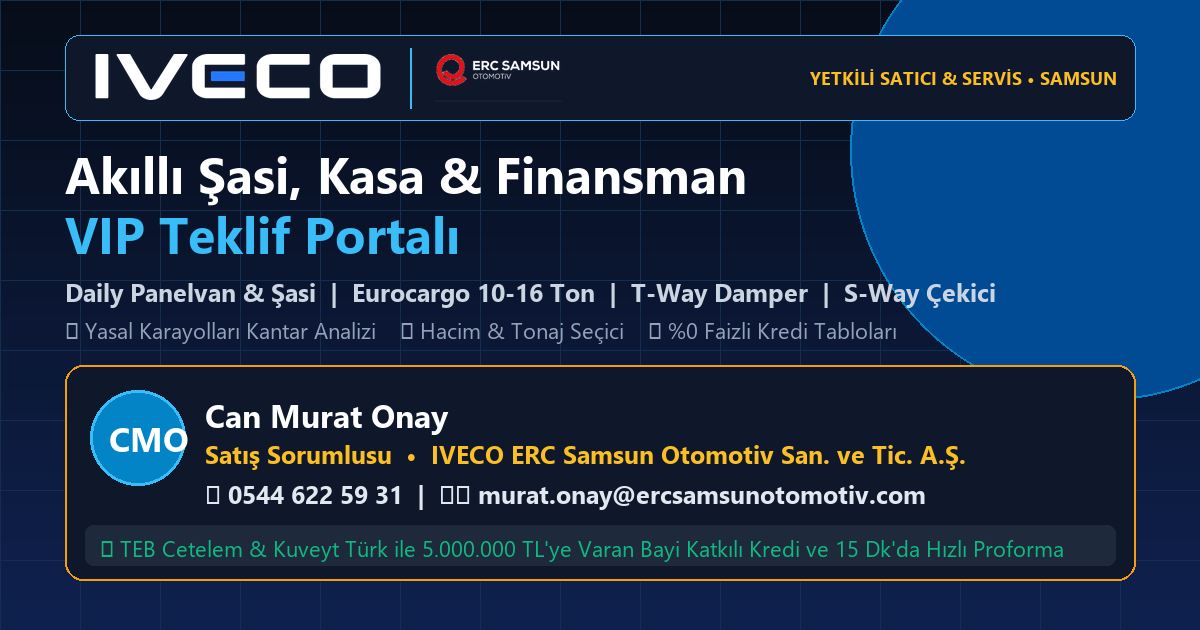
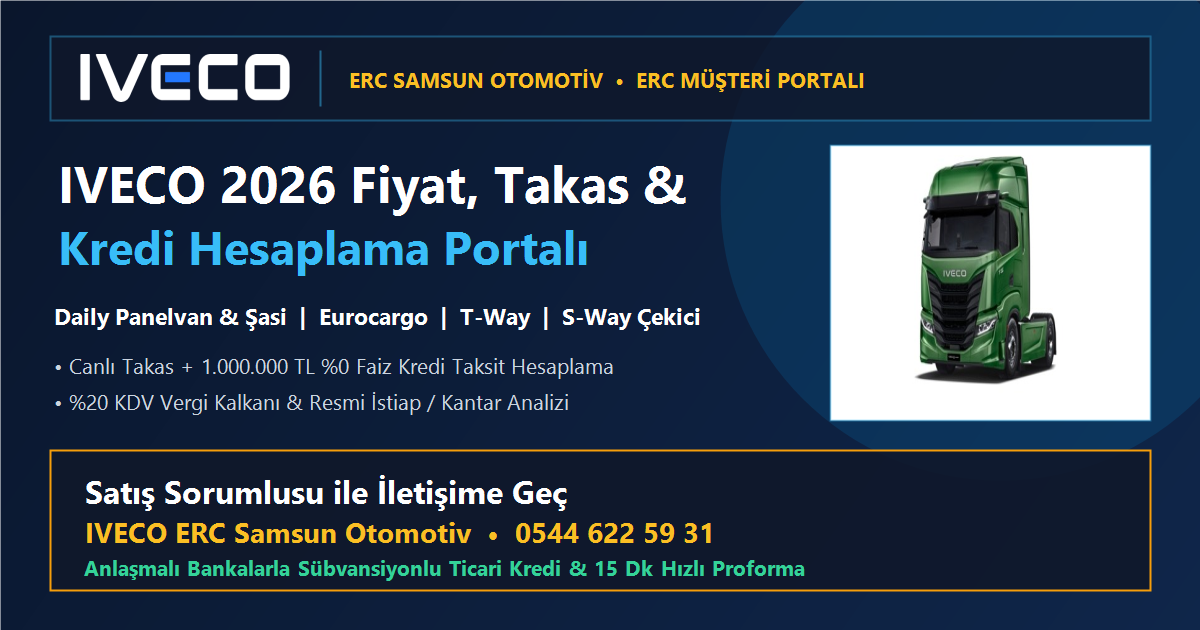
fix(whatsapp): optimize WhatsApp Status templates and OpenGraph tags for Android preview card

diff --git a/frontend/src/components/CRM/PartnerLinkGeneratorCard.jsx b/frontend/src/components/CRM/PartnerLinkGeneratorCard.jsx
@@ -172,7 +172,7 @@ export default function PartnerLinkGeneratorCard({ isMobile = false }) {
       params.set('picon', '👑');
     }
     params.set('ref', activeChannel.refCode);
-    return `${baseOrigin}/fiyat-listesi?${params.toString()}`;
+    return `${baseOrigin}/?${params.toString()}`;
   }, [
     origin,
     activeChannel,
@@ -191,8 +191,8 @@ export default function PartnerLinkGeneratorCard({ isMobile = false }) {
     const link = channelGeneratedLink;
     const discountShortNote = enableChannelDiscount && Number(channelDiscountValue) > 0
       ? (channelDiscountType === 'percent'
-          ? ` (Linkin içine sana özel %${channelDiscountValue} iskonto da tanımladım)`
-          : ` (Linkin içine sana özel araç başı ${Number(channelDiscountValue).toLocaleString('tr-TR')} TL indirim de tanımladım)`)
+          ? ` (%${channelDiscountValue} özel iskonto tanımlı)`
+          : ` (${Number(channelDiscountValue).toLocaleString('tr-TR')} TL özel indirim tanımlı)`)
       : '';
     const discountLine = enableChannelDiscount && Number(channelDiscountValue) > 0
       ? (channelDiscountType === 'percent'
@@ -200,44 +200,60 @@ export default function PartnerLinkGeneratorCard({ isMobile = false }) {
           : `🎁 *Size Özel Tanımlanan İndirim:* Tüm 2026 modellerde *Araç Başı ${Number(channelDiscountValue).toLocaleString('tr-TR')} TL Özel İndirim* fiyatlardan otomatik düşülmüştür!\n`)
       : '';
 
-    // 1. SIKMAYAN 2 CÜMLELİK MERAK KANCASI (REKLAM KOKMAYAN / EN YÜKSEK TIKLAMA)
-    if (hookStyle === 'curiosity_short') {
-      if (selectedChannelId === 'wa_durum') {
+    // WHATSAPP DURUM (STATUS) ÖZEL KURALI:
+    // Android WhatsApp Durum'da metin ~180 karakteri aşarsa veya linkin altında/başında metin-emoji olursa
+    // üstteki beyaz resimli link kartı gizlenir. Bu yüzden Durum metinleri kısa tutulur ve link en son satırda tek başına yer alır:
+    if (selectedChannelId === 'wa_durum') {
+      if (hookStyle === 'tradein_hook') {
         return (
-          `Kimseyi aramadan, telefon trafiğine girmeden 10 saniyede kendi hesabınızı yapın: 👇\n` +
-          `Elinizdeki aracın takas değerini düşüp 2026 sıfır IVECO'nun size ayda kaç TL'ye geleceğini buradan kendiniz görebilirsiniz${discountShortNote}:\n\n` +
-          `👉 ${link}\n\n` +
-          `Satış Sorumlusu | 0544 622 59 31`
+          `🔄 Aracınızı takasa verince 2026 IVECO ayda kaç TL'ye gelir? 1M TL %0 Faizle hemen hesaplayın${discountShortNote} 👇\n\n` +
+          `${link}`
         );
       }
+      if (hookStyle === 'tax_hook') {
+        return (
+          `🧾 Vergi ödemek yerine filoyu yenileyin: %20 KDV vergi indirimi ve 1M TL %0 Faiz tablosu${discountShortNote} 👇\n\n` +
+          `${link}`
+        );
+      }
+      if (hookStyle === 'detailed') {
+        return (
+          `🚛 2026 IVECO Canlı Fiyat, Takas & 1M TL %0 Faiz Kredi Hesaplama Ekranımız Açıldı${discountShortNote} 👇\n\n` +
+          `${link}`
+        );
+      }
+      return (
+        `Kimseyi aramadan 10 saniyede elinizdeki aracın takasını düşüp 2026 IVECO kredi taksitinizi hesaplayın${discountShortNote} 👇\n\n` +
+        `${link}`
+      );
+    }
+
+    // 1. SIKMAYAN 2 CÜMLELİK MERAK KANCASI (REKLAM KOKMAYAN / EN YÜKSEK TIKLAMA)
+    if (hookStyle === 'curiosity_short') {
       if (selectedChannelId === 'wa_ozel' || selectedChannelId === 'wa_musteri') {
         const prefix = vipCompanyName.trim() ? `*${vipCompanyName.trim()}* — ` : '';
         return (
           `${prefix}Abi selamlar, hayırlı işler dilerim. 🙏\n\n` +
-          `Seni hiç telefonla bölmeyeyim dedim; beni aramana bile gerek kalmadan elindeki aracın takasını düşüp kalan kredi taksitini ve 2026 şasi fiyatlarını kendi başına görebileceğin bir hesap makinesi hazırladım${discountShortNote}. Lazım oldukça elinin altında bulunsun:\n\n` +
-          `👉 ${link}\n\n` +
-          `*Satış Sorumlusu — 0544 622 59 31*`
+          `Seni hiç telefonla bölmeyeyim dedim; beni aramana bile gerek kalmadan elindeki aracın takasını düşüp kalan kredi taksitini ve 2026 şasi fiyatlarını kendi başına görebileceğin bir hesap makinesi hazırladım${discountShortNote}. Lazım oldukça elinin altında bulunsun 👇\n\n` +
+          `${link}`
         );
       }
       if (selectedChannelId === 'wa_grup') {
         return (
           `Cümleten hayırlı işler, kazasız belasız seferler abilerim. 🙏\n\n` +
-          `Grubu reklamla meşgul etmek için değil, işinize yarayacak canlı bir hesap cetveli bırakmak için yazıyorum: Kimseyi aramadan hangi ehliyetle hangi tonaj taşınır, elinizdeki aracın takasını düşünce ayda kaç TL taksit çıkar 10 saniyede kendiniz bakabilirsiniz${discountShortNote}:\n\n` +
-          `👉 ${link}\n\n` +
-          `*Satış Sorumlusu | IVECO ERC Samsun — 0544 622 59 31*`
+          `Grubu reklamla meşgul etmek için değil, işinize yarayacak canlı bir hesap cetveli bırakmak için yazıyorum: Kimseyi aramadan hangi ehliyetle hangi tonaj taşınır, elinizdeki aracın takasını düşünce ayda kaç TL taksit çıkar 10 saniyede kendiniz bakabilirsiniz${discountShortNote} 👇\n\n` +
+          `${link}`
         );
       }
       if (selectedChannelId === 'instagram') {
         return (
           `"Elimdeki aracı takasa versem 2026 sıfır IVECO bana ayda kaç TL'ye gelir?" diye kimseye sormayın, 10 saniyede kendiniz hesaplayın! 🚛👇\n\n` +
-          `👉 ${link}\n\n` +
-          `Satış Sorumlusu | 0544 622 59 31`
+          `${link}`
         );
       }
       return (
-        `Ticari araç yatırımlarında telefon trafiğine girmeden; tonaj/kasa uyumu, %20 KDV vergi kalkanı ve takas + kredi nakit akışını 30 saniyede kendi ekranınızda simüle edebileceğiniz dijital hesaplama aracımız:${discountShortNote}\n\n` +
-        `🔗 ${link}\n\n` +
-        `Satış Sorumlusu | IVECO ERC Samsun Otomotiv | 0544 622 59 31`
+        `Ticari araç yatırımlarında telefon trafiğine girmeden; tonaj/kasa uyumu, %20 KDV vergi kalkanı ve takas + kredi nakit akışını 30 saniyede kendi ekranınızda simüle edebileceğiniz dijital hesaplama aracımız${discountShortNote} 👇\n\n` +
+        `${link}`
       );
     }
 
@@ -245,9 +261,8 @@ export default function PartnerLinkGeneratorCard({ isMobile = false }) {
     if (hookStyle === 'tradein_hook') {
       return (
         `🔄 *"Elimdeki aracı takasa versem ne kadar sayarlar, üstüne ayda kaç TL öderim?"* diye merak edenler için canlı ekran açtık!${discountShortNote}\n\n` +
-        `İster ekrandaki sürgüden aracınızın takas değerini düşüp *1.000.000 TL %0 Faizle* kalan taksitinizi görün, isterseniz mevcut aracınızın *4 resmini (1 dıştan, 1 içten, KM ve ruhsat)* yükleyin 15 dakikada takas ön fiyatınızı cebinize gönderelim:\n\n` +
-        `👉 ${link}\n\n` +
-        `*Satış Sorumlusu | IVECO ERC Samsun — 0544 622 59 31*`
+        `İster ekrandaki sürgüden aracınızın takas değerini düşüp *1.000.000 TL %0 Faizle* kalan taksitinizi görün, isterseniz mevcut aracınızın *4 resmini (1 dıştan, 1 içten, KM ve ruhsat)* yükleyin 15 dakikada takas ön fiyatınızı cebinize gönderelim 👇\n\n` +
+        `${link}`
       );
     }
 
@@ -255,23 +270,8 @@ export default function PartnerLinkGeneratorCard({ isMobile = false }) {
     if (hookStyle === 'tax_hook') {
       return (
         `🧾 *Vergi Ödemek Yerine Filoyu Yenilemek İsteyen İşletmelerimize Not:*\n\n` +
-        `2026 model IVECO şasi ve çekici modellerimizde aracın fatura bedeli içindeki *%20 KDV tutarını doğrudan vergiden düşebileceğiniz* tutarları ve *1M TL %0 Faiz* kredi tablosunu tek ekranda hazırladık${discountShortNote}. Mali müşavirinize tek tuşla gönderebilirsiniz:\n\n` +
-        `👉 ${link}\n\n` +
-        `*Satış Sorumlusu | IVECO ERC Samsun — 0544 622 59 31*`
-      );
-    }
-
-    if (selectedChannelId === 'wa_durum') {
-      return (
-        `🚛 2026 IVECO Canlı Fiyat, Takas & Kredi Hesaplama Ekranımız Açıldı!\n\n` +
-        (discountLine ? `${discountLine}\n` : '') +
-        `Kimseyi aramanıza gerek kalmadan tek tıkla:\n` +
-        `🔄 Elinizdeki aracın takas değerini düşüp 1M TL %0 Faiz (83.333 TL/Ay) ile kalan taksitinizi hesaplayın,\n` +
-        `📸 Mevcut aracınızın 4 resmini (1 dıştan, 1 içten, KM ve ruhsat) gönderip 15 dk'da takas ön fiyatı alın,\n` +
-        `🔒 Beğendiğiniz şasiyi 24 saat ücretsiz adınıza opsiyonlayın veya\n` +
-        `☕ Showroom kahve / görüntülü araç turu randevunuzu seçin:\n\n` +
-        `👉 ${link}\n\n` +
-        `Satış Sorumlusu | IVECO ERC Samsun Otomotiv\n📞 0544 622 59 31`
+        `2026 model IVECO şasi ve çekici modellerimizde aracın fatura bedeli içindeki *%20 KDV tutarını doğrudan vergiden düşebileceğiniz* tutarları ve *1M TL %0 Faiz* kredi tablosunu tek ekranda hazırladık${discountShortNote}. Mali müşavirinize tek tuşla gönderebilirsiniz 👇\n\n` +
+        `${link}`
       );
     }
 
@@ -282,10 +282,8 @@ export default function PartnerLinkGeneratorCard({ isMobile = false }) {
         `2026 model IVECO Daily (B ve C Ehliyet), Eurocargo, S-Way ve T-Way güncel fiyat listemizi, anlaşmalı banka kredi oranlarımızı ve takas hesaplama ekranımızı aşağıdaki bağlantıdan inceleyebilirsiniz:\n\n` +
         discountLine +
         `✅ *Canlı Takas + Kredi Hesabı:* Elinizdeki aracın takas değerini düşüp 1.000.000 TL 12 Ay %0 Faiz veya vadeli banka oranlarıyla aylık taksitinizi anında görün,\n` +
-        `📸 *4 Resimle 15 Dk'da Takas:* Mevcut aracınızın 1 dıştan, 1 içten, KM ve ruhsat resmini yükleyip 15 dakikada takas ön fiyatı alın:\n\n` +
-        `👉 ${link}\n\n` +
-        `Beğendiğiniz modeli ekrandaki tek tuşla 24 saat adınıza opsiyonlayabilir veya doğrudan bana gönderebilirsiniz.\n` +
-        `*Satış Sorumlusu — 0544 622 59 31*`
+        `📸 *4 Resimle 15 Dk'da Takas:* Mevcut aracınızın 1 dıştan, 1 içten, KM ve ruhsat resmini yükleyip 15 dakikada takas ön fiyatı alın 👇\n\n` +
+        `${link}`
       );
     }
 
@@ -297,10 +295,8 @@ export default function PartnerLinkGeneratorCard({ isMobile = false }) {
           `IVECO ERC Samsun'da senin için özel bir canlı katalog ve hesaplama bağlantısı hazırladım. Artık 2026 şasi fiyatlarına bakmak veya takas/kredi hesabı yapmak için beni aramana bile gerek yok:\n\n` +
           discountLine +
           `🔄 Elindeki aracın takas değerini düşüp *1.000.000 TL 12 Ay %0 Faiz (83.333 TL/Ay)* ile kalan taksitini 10 saniyede kendin hesaplayabilirsin,\n` +
-          `📸 Mevcut aracının *4 resmini (1 dıştan, 1 içten, KM ve ruhsat)* yükleyip 15 dakikada takasla fiyat alabilirsin:\n\n` +
-          `👉 ${link}\n\n` +
-          `Kafana yatan bir model olursa ekrandaki tek tuşla doğrudan bana düşüyor. Selamlar!\n` +
-          `*Satış Sorumlusu | IVECO ERC Samsun Otomotiv*\n📞 *0544 622 59 31*`
+          `📸 Mevcut aracının *4 resmini (1 dıştan, 1 içten, KM ve ruhsat)* yükleyip 15 dakikada takasla fiyat alabilirsin 👇\n\n` +
+          `${link}`
         );
       }
       if (vipTone === 'corporate') {
@@ -309,18 +305,15 @@ export default function PartnerLinkGeneratorCard({ isMobile = false }) {
           `Ben IVECO ERC Samsun Otomotiv *Satış Sorumlusu* (0544 622 59 31).\n\n` +
           `2026 yılı filo yenileme ve ticari araç yatırımlarınız kapsamında firmanıza özel hazırladığım dijital katalog, %20 KDV vergi kalkanı & amortisman özeti ve ticari kredi simülasyon bağlantınızı bilgilerinize sunarım:\n\n` +
           discountLine +
-          `👉 ${link}\n\n` +
-          `İhtiyacınıza özel resmi proforma çalışması veya iş yerinizde ziyaret randevusu için bağlantı üzerinden doğrudan talep oluşturabilirsiniz.\n\n` +
-          `Saygılarımla,\n*Satış Sorumlusu - 0544 622 59 31*\n*IVECO ERC Samsun Otomotiv*`
+          `${link}`
         );
       }
       return (
         `Sayın *${targetTitle}*,\n\n` +
         `Ben IVECO ERC Samsun Otomotiv *Satış Sorumlusu* (0544 622 59 31).\n\n` +
-        `Firmanız için hazırladığım 2026 model IVECO şasi fiyat listesini, takas + %0 faizli kredi hesaplayıcısını ve 4 resimle (1 dıştan, 1 içten, KM ve ruhsat) 15 dakikada takas ön değerleme ekranımızı aşağıdaki size özel bağlantıdan inceleyebilirsiniz:\n\n` +
+        `Firmanız için hazırladığım 2026 model IVECO şasi fiyat listesini, takas + %0 faizli kredi hesaplayıcısını ve 4 resimle (1 dıştan, 1 içten, KM ve ruhsat) 15 dakikada takas ön değerleme ekranımızı aşağıdaki size özel bağlantıdan inceleyebilirsiniz 👇\n\n` +
         discountLine +
-        `👉 ${link}\n\n` +
-        `İyi çalışmalar dilerim.\n*Satış Sorumlusu - 0544 622 59 31*\n*IVECO ERC Samsun Otomotiv*`
+        `${link}`
       );
     }
 
@@ -333,9 +326,8 @@ export default function PartnerLinkGeneratorCard({ isMobile = false }) {
         `🔄 *Canlı Takas + Kredi Hesabı:* Elinizdeki aracın takas değerini düşüp 1M TL %0 Faiz veya anlaşmalı banka oranlarıyla aylık taksitinizi anında görün,\n` +
         `📸 *4 Resimle 15 Dk'da Takas:* Aracınızın 1 dıştan, 1 içten, KM ve ruhsat resmini yükleyin, 15 dakikada takasla net fiyatınızı çıkaralım,\n` +
         `🔔 *Takastan Temiz 2. El Habercisi:* Sıfır bütçesini aşanlar kaydolsun, takasa temiz araç düştüğü an ilk size haber verelim!\n\n` +
-        `👇 *Hemen incelemek ve hesap yapmak için tıklayın:*\n` +
-        `👉 ${link}\n\n` +
-        `*Satış Sorumlusu — IVECO ERC Samsun Otomotiv*\n📞 *0544 622 59 31*`
+        `👇 *Hemen incelemek ve hesap yapmak için tıklayın:*\n\n` +
+        `${link}`
       );
     }
 
@@ -349,8 +341,8 @@ export default function PartnerLinkGeneratorCard({ isMobile = false }) {
         `🔒 Muhasebecinizle görüşene kadar Fiyatı 24 Saat Ücretsiz Opsiyonlama,\n` +
         `☕ Showroom Kahve, İş Yeri Ziyareti veya Canlı Görüntülü Araç Turu Randevusu,\n` +
         `🔔 Sıfır bütçesini aşanlar için: Takastan Temiz 2. El IVECO Habercisi!\n\n` +
-        `👉 Hemen denemek için profilimdeki / hikayemdeki linke tıklayın:\n${link}\n\n` +
-        `📞 Satış Sorumlusu — 0544 622 59 31 | IVECO ERC Samsun Otomotiv`
+        `👇 Hemen denemek için profilimdeki / hikayemdeki linke tıklayın:\n\n` +
+        `${link}`
       );
     }
 
@@ -362,9 +354,8 @@ export default function PartnerLinkGeneratorCard({ isMobile = false }) {
       `1⃣ Tonaj, üstyapı ve ehliyet sınıfına göre 2026 Daily (3.5T - 7T), Eurocargo, S-Way Çekici ve T-Way şasi eşleştirmesi,\n` +
       `2⃣ Takas peşinatı + %0 faizli TL ve EUR ticari kredi nakit akış simülasyonu,\n` +
       `3⃣ Mali müşavirinize tek tıkla iletebileceğiniz %20 KDV Vergi Kalkanı, 5 Yıllık TCO Yakıt Avantajı & Amortisman özeti,\n` +
-      `4⃣ 4 fotoğrafla (dıştan, içten, KM, ruhsat) 15 dakikada takas değerleme ve 24 saatlik ücretsiz şasi/fiyat blokajı oluşturabilirsiniz:\n\n` +
-      `🔗 ${link}\n\n` +
-      `Satış Sorumlusu | IVECO ERC Samsun Otomotiv | 📞 0544 622 59 31\n\n` +
+      `4⃣ 4 fotoğrafla (dıştan, içten, KM, ruhsat) 15 dakikada takas değerleme ve 24 saatlik ücretsiz şasi/fiyat blokajı oluşturabilirsiniz 👇\n\n` +
+      `${link}\n\n` +
       `#IVECO #Lojistik #FiloYönetimi #TicariAraç #Nakliye #SWay #Daily #Samsun`
     );
   }, [

diff --git a/frontend/index.html b/frontend/index.html
@@ -3,7 +3,7 @@
   <head>
     <meta charset="UTF-8" />
     <meta name="viewport" content="width=device-width, initial-scale=1.0, maximum-scale=1.0, user-scalable=no, viewport-fit=cover" />
-    <meta name="description" content="IVECO 2026 Model Şasi Fiyat Listesi, Taşıma Kapasitesi (İstiap) Analizi ve Anlaşmalı Banka Kredi Planı. Satış Sorumlusu: Can Murat Onay (0544 622 59 31)" />
+    <meta name="description" content="IVECO 2026 Model Şasi Fiyat Listesi, Taşıma Kapasitesi (İstiap) Analizi ve Anlaşmalı Banka Kredi Planı. Satış Sorumlusu ile İletişime Geç (0544 622 59 31)" />
     <meta name="theme-color" content="#004B93" />
     <meta name="apple-mobile-web-app-capable" content="yes" />
     <meta name="apple-mobile-web-app-status-bar-style" content="black-translucent" />
@@ -12,11 +12,12 @@
     <!-- Open Graph (WhatsApp, LinkedIn, Telegram, Facebook) -->
     <meta property="og:type" content="website" />
     <meta property="og:locale" content="tr_TR" />
+    <meta property="og:url" content="https://iveco-fiyat-listesi.vercel.app/" />
     <meta property="og:site_name" content="ERC Müşteri Portalı" />
     <meta property="og:title" content="ERC Müşteri Portalı — IVECO 2026 Model Fiyat Listesi & Kredi Portalı" />
-    <meta property="og:description" content="Daily 35, Eurocargo ve S-Way güncel şasi fiyatları, yasal istiap haddi, hazır teslim stok bilgisi ve sübvansiyonlu banka finansman planı. Satış Sorumlusu (0544 622 59 31)" />
-    <meta property="og:image" content="https://iveco-fiyat-listesi.vercel.app/og-iveco-preview.png?v=2" />
-    <meta property="og:image:secure_url" content="https://iveco-fiyat-listesi.vercel.app/og-iveco-preview.png?v=2" />
+    <meta property="og:description" content="Daily 35, Eurocargo, T-Way ve S-Way güncel şasi fiyatları, yasal istiap haddi ve sübvansiyonlu banka finansman planı. Satış Sorumlusu (0544 622 59 31)" />
+    <meta property="og:image" content="https://iveco-fiyat-listesi.vercel.app/og-iveco-preview.png?v=3" />
+    <meta property="og:image:secure_url" content="https://iveco-fiyat-listesi.vercel.app/og-iveco-preview.png?v=3" />
     <meta property="og:image:type" content="image/png" />
     <meta property="og:image:width" content="1200" />
     <meta property="og:image:height" content="630" />
@@ -26,7 +27,7 @@
     <meta name="twitter:card" content="summary_large_image" />
     <meta name="twitter:title" content="ERC Müşteri Portalı — IVECO 2026 Model Fiyat Listesi & Kredi Portalı" />
     <meta name="twitter:description" content="IVECO Güncel Şasi Fiyatları, Yasal İstiap Haddi ve 2026 Banka Finansman Planı. Satış Sorumlusu (0544 622 59 31)" />
-    <meta name="twitter:image" content="https://iveco-fiyat-listesi.vercel.app/og-iveco-preview.png?v=2" />
+    <meta name="twitter:image" content="https://iveco-fiyat-listesi.vercel.app/og-iveco-preview.png?v=3" />
 
     <link rel="apple-touch-icon" href="/logo192.png" />
     <title>ERC Müşteri Portalı — IVECO 2026 Model Fiyat Listesi & Kredi Portalı</title>

diff --git a/frontend/src/pages/Discovery/IntentRadar.jsx b/frontend/src/pages/Discovery/IntentRadar.jsx
@@ -1259,20 +1259,15 @@ export default function IntentRadar() {
               color: '#e2e8f0',
               whiteSpace: 'pre-wrap'
             }}>
-{`IVECO 2026 Model Fiyat Listesi & Resmi Bayi Finansman Portalı
+{`🚛 IVECO 2026 Fiyat, Takas & 1M TL %0 Faiz Kredi Hesaplama Portalı 👇
 
-Daily 35, Daily 70C, Eurocargo ve S-Way şasi modellerimizin güncel anahtar teslim bayi fiyatlarını, yasal istiap kapasitelerini ve resmi banka sübvansiyonlu kredi taksit planlarını aşağıdaki bağlantıdan inceleyebilirsiniz:
-
-${getPublicOrigin()}/fiyat-listesi?ref=muratonay
-
-IVECO Yetkili Satıcısı ERC Samsun Otomotiv A.Ş.
-Can Murat ONAY - 0544 622 59 31`}
+${getPublicOrigin()}/?ref=wa_durum`}
             </div>
 
             <div style={{ display: 'flex', gap: '10px' }}>
               <button
                 onClick={() => {
-                  const text = `IVECO 2026 Model Fiyat Listesi & Resmi Bayi Finansman Portalı\n\nDaily 35, Daily 70C, Eurocargo ve S-Way şasi modellerimizin güncel anahtar teslim bayi fiyatlarını, yasal istiap kapasitelerini ve resmi banka sübvansiyonlu kredi taksit planlarını aşağıdaki bağlantıdan inceleyebilirsiniz:\n\n${getPublicOrigin()}/fiyat-listesi?ref=muratonay\n\nIVECO Yetkili Satıcısı ERC Samsun Otomotiv A.Ş.\nCan Murat ONAY - 0544 622 59 31`;
+                  const text = `🚛 IVECO 2026 Fiyat, Takas & 1M TL %0 Faiz Kredi Hesaplama Portalı 👇\n\n${getPublicOrigin()}/?ref=wa_durum`;
                   navigator.clipboard.writeText(text);
                   setCopiedStatusText(true);
                   toast.success('WhatsApp Durum metni ve linki panoya kopyalandı!');

diff --git a/frontend/src/data/partnerProtocols.js b/frontend/src/data/partnerProtocols.js
@@ -288,7 +288,7 @@ export function buildPartnerShareUrl(origin, config) {
 
   params.set('ref', `protokol_${slug || partnerId}`);
 
-  return `${baseOrigin}/fiyat-listesi?${params.toString()}`;
+  return `${baseOrigin}/?${params.toString()}`;
 }
 
 /**
@@ -307,10 +307,7 @@ export function buildPartnerAnnouncementText(origin, config) {
     `✅ Tüm araçlarda *${config.shortName} Üye İndirimi düşülmüş* net protokol fiyatlarını anında görün,\n` +
     `🔄 Elinizdeki mevcut aracın takas değerini düşüp *1.000.000 TL 12 Ay %0 Faiz (83.333 TL/Ay)* veya anlaşmalı banka oranlarıyla kalan taksitinizi 10 saniyede hesaplayın,\n` +
     `📸 Takasa vereceğiniz aracın *4 resmini (1 dıştan, 1 içten, KM ve ruhsat)* yükleyip 15 dakikada takas ön fiyatı alın,\n` +
-    `🔒 Beğendiğiniz şasiyi ve üye indirimini 24 saat ücretsiz adınıza opsiyonlayın:\n\n` +
-    `👇 *${config.shortName} Üyelerine Özel İndirimli Katalog & Hesaplama Linki:*\n` +
-    `👉 ${link}\n\n` +
-    `*Satış Sorumlusu | IVECO ERC Samsun Otomotiv*\n` +
-    `📞 *0544 622 59 31*`
+    `🔒 Beğendiğiniz şasiyi ve üye indirimini 24 saat ücretsiz adınıza opsiyonlayın 👇\n\n` +
+    `${link}`
   );
 }

diff --git a/frontend/public/sw.js b/frontend/public/sw.js
@@ -1,4 +1,4 @@
-const CACHE_NAME = 'erc-portal-cache-v5';
+const CACHE_NAME = 'erc-portal-cache-v6';
 const ASSETS_TO_CACHE = [
   '/manifest.json',
   '/favicon.ico',
